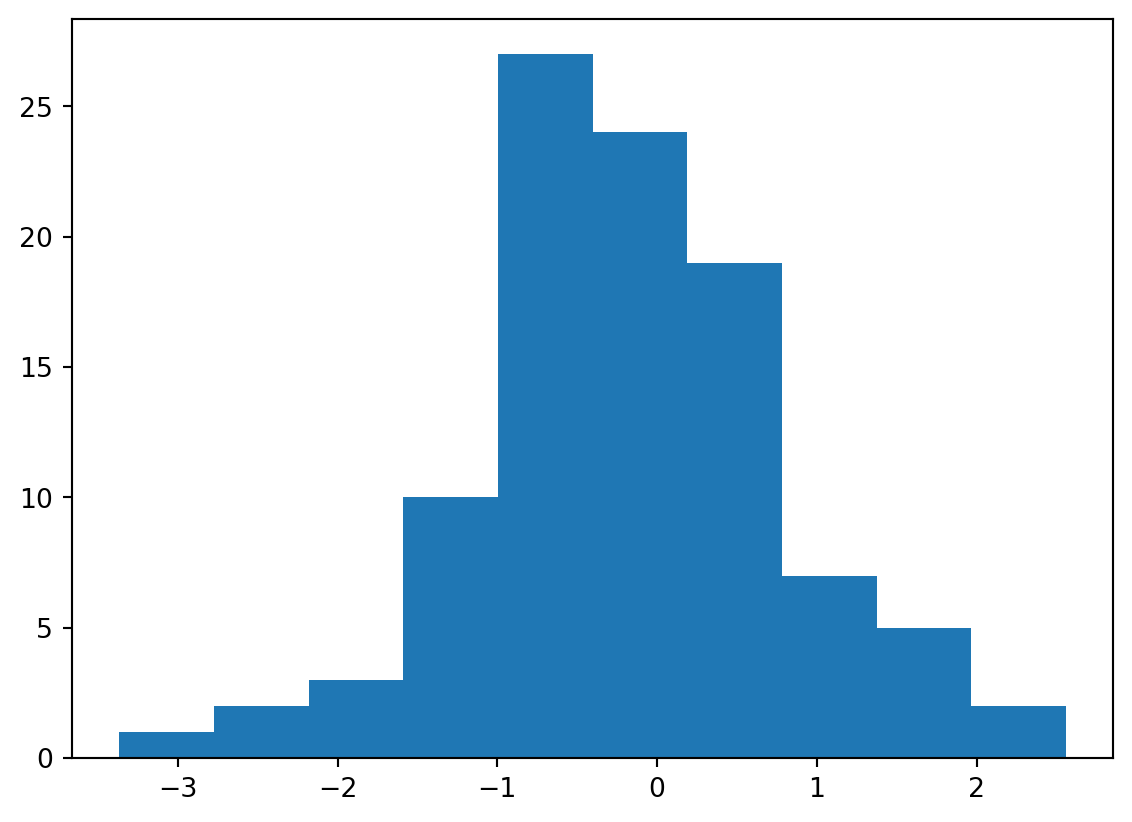
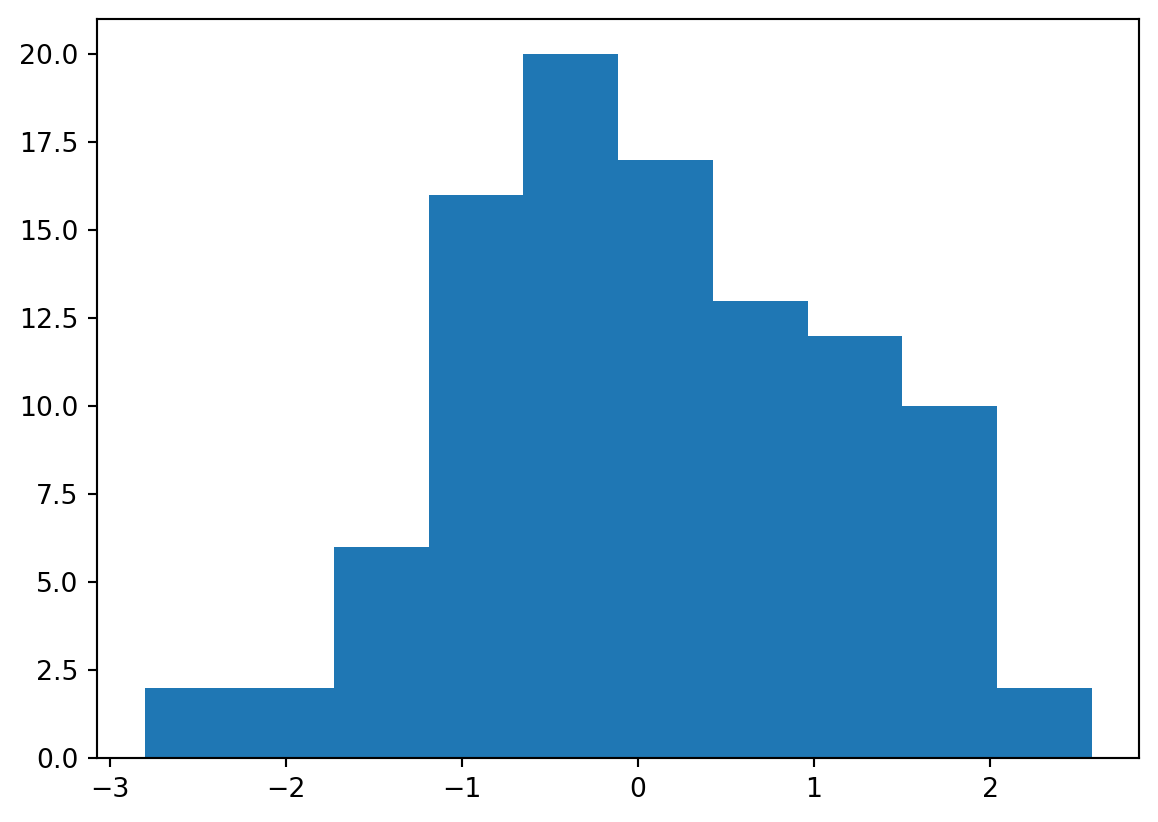
Built site for gh-pages

diff --git a/units/unit1.html b/units/unit1.html
@@ -284,7 +284,7 @@ window.Quarto = {
 <p>This is an example of using qmd as the source document.</p>
 <section id="evaluated-python-code-chunk-with-a-plot" class="level2">
 <h2 class="anchored" data-anchor-id="evaluated-python-code-chunk-with-a-plot">Evaluated Python code chunk, with a plot</h2>
-<div id="5c6cc974" class="cell" data-execution_count="1">
+<div id="0186c935" class="cell" data-execution_count="1">
 <details open="" class="code-fold">
 <summary>Code</summary>
 <div class="sourceCode cell-code" id="cb1"><pre class="sourceCode python code-with-copy"><code class="sourceCode python"><span id="cb1-1"><a href="#cb1-1" aria-hidden="true" tabindex="-1"></a><span class="im">import</span> numpy <span class="im">as</span> np</span>
@@ -297,12 +297,12 @@ window.Quarto = {
 <div class="cell-output cell-output-display">
 <div>
 <figure class="figure">
-<p><img src="unit1_files/figure-html/cell-2-output-1.png" width="566" height="411" class="figure-img"></p>
+<p><img src="unit1_files/figure-html/cell-2-output-1.png" width="579" height="411" class="figure-img"></p>
 </figure>
 </div>
 </div>
 <div class="cell-output cell-output-display" data-execution_count="1">
-<pre><code>-0.15575763627302536</code></pre>
+<pre><code>0.080622751461345</code></pre>
 </div>
 </div>
 </section>
@@ -355,7 +355,7 @@ Tip with Title
 </div>
 <div id="tabset-1-2" class="tab-pane" role="tabpanel" aria-labelledby="tabset-1-2-tab">
 <p>This code is executed.</p>
-<div id="46722378" class="cell" data-execution_count="2">
+<div id="e7b7af12" class="cell" data-execution_count="2">
 <details open="" class="code-fold">
 <summary>Code</summary>
 <div class="sourceCode cell-code" id="cb4"><pre class="sourceCode python code-with-copy"><code class="sourceCode python"><span id="cb4-1"><a href="#cb4-1" aria-hidden="true" tabindex="-1"></a><span class="kw">def</span> fizz_buzz(num):</span>

diff --git a/syllabus.html b/syllabus.html
@@ -186,7 +186,7 @@ ul.task-list li input[type="checkbox"] {
     <h2 id="toc-title">On this page</h2>
    
   <ul>
-  <li><a href="#about-department-999" id="toc-about-department-999" class="nav-link active" data-scroll-target="#about-department-999">About Department 999</a>
+  <li><a href="#about" id="toc-about" class="nav-link active" data-scroll-target="#about">About Department 999</a>
   <ul class="collapse">
   <li><a href="#goals" id="toc-goals" class="nav-link" data-scroll-target="#goals">Goals</a></li>
   <li><a href="#prerequisites" id="toc-prerequisites" class="nav-link" data-scroll-target="#prerequisites">Prerequisites</a></li>
@@ -219,14 +219,14 @@ ul.task-list li input[type="checkbox"] {
 <p>[UNDER CONSTRUCTION]</p>
 <p>Jump to:</p>
 <ul>
-<li><a href="#about-department-999">About Department 999</a>
+<li><a href="#about">About Department 999</a>
 <ul>
 <li><a href="#goals">Goals</a></li>
 <li><a href="#prerequisites">Prerequisites</a></li>
 </ul></li>
 </ul>
-<section id="about-department-999" class="level2">
-<h2 class="anchored" data-anchor-id="about-department-999">About Department 999</h2>
+<section id="about" class="level2">
+<h2 class="anchored" data-anchor-id="about">About Department 999</h2>
 <p>Lorem ipsum dolor sit amet, consectetur adipiscing elit. Phasellus lectus dui, euismod vel tellus sit amet, maximus fringilla risus. Cras nec maximus leo. Fusce sit amet tortor pellentesque, hendrerit odio vitae, dictum lorem. Nunc sed nunc nisl. Cras augue tortor, ultrices ut luctus non, dictum nec magna. Cras vel ex purus. In blandit est non finibus dignissim. Donec vehicula, nisi quis rutrum faucibus, est turpis ultrices nibh, quis rutrum diam nibh tempus nulla. Vestibulum malesuada consectetur ex in vestibulum.</p>
 <section id="goals" class="level3">
 <h3 class="anchored" data-anchor-id="goals">Goals</h3>

diff --git a/units/unit3.html b/units/unit3.html
@@ -285,7 +285,7 @@ $$
 <p>This is an example of using qmd as the source document with pdf as one target. I’ve taken out the qmd stuff that doesn’t seem to render to pdf.</p>
 <section id="evaluated-python-code-chunk-with-a-plot" class="level2">
 <h2 class="anchored" data-anchor-id="evaluated-python-code-chunk-with-a-plot">Evaluated Python code chunk, with a plot</h2>
-<div id="9bb5f42c" class="cell" data-execution_count="1">
+<div id="a8f1f690" class="cell" data-execution_count="1">
 <details open="" class="code-fold">
 <summary>Code</summary>
 <div class="sourceCode cell-code" id="cb1"><pre class="sourceCode python code-with-copy"><code class="sourceCode python"><span id="cb1-1"><a href="#cb1-1" aria-hidden="true" tabindex="-1"></a><span class="im">import</span> numpy <span class="im">as</span> np</span>
@@ -298,12 +298,12 @@ $$
 <div class="cell-output cell-output-display">
 <div>
 <figure class="figure">
-<p><img src="unit3_files/figure-html/cell-2-output-1.png" width="566" height="411" class="figure-img"></p>
+<p><img src="unit3_files/figure-html/cell-2-output-1.png" width="566" height="413" class="figure-img"></p>
 </figure>
 </div>
 </div>
 <div class="cell-output cell-output-display" data-execution_count="1">
-<pre><code>0.13547893953988463</code></pre>
+<pre><code>0.0834896105327351</code></pre>
 </div>
 </div>
 </section>

diff --git a/index.html b/index.html
@@ -284,7 +284,7 @@ window.Quarto = {
 <header id="title-block-header" class="quarto-title-block default">
 <div class="quarto-title">
 <h1 class="title">Department 999: Generic Class</h1>
-<p class="subtitle lead">UC Berkeley, Spring 2024</p>
+<p class="subtitle lead">UC Berkeley, Spring 2025</p>
 </div>
 
 
